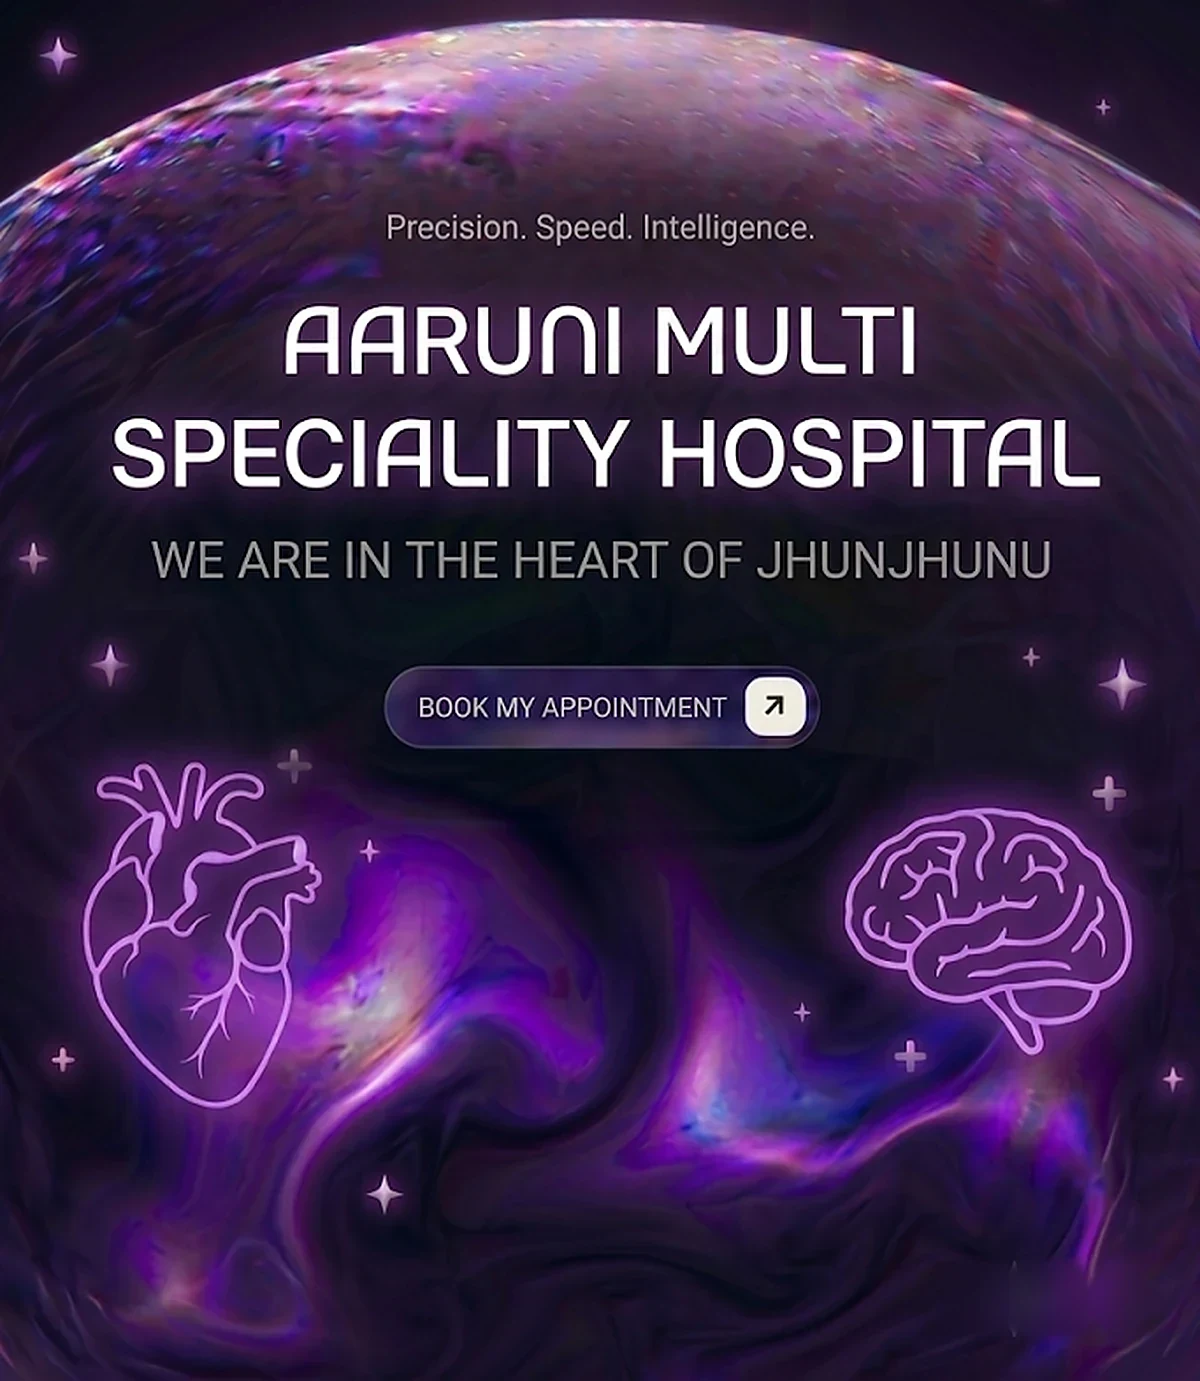
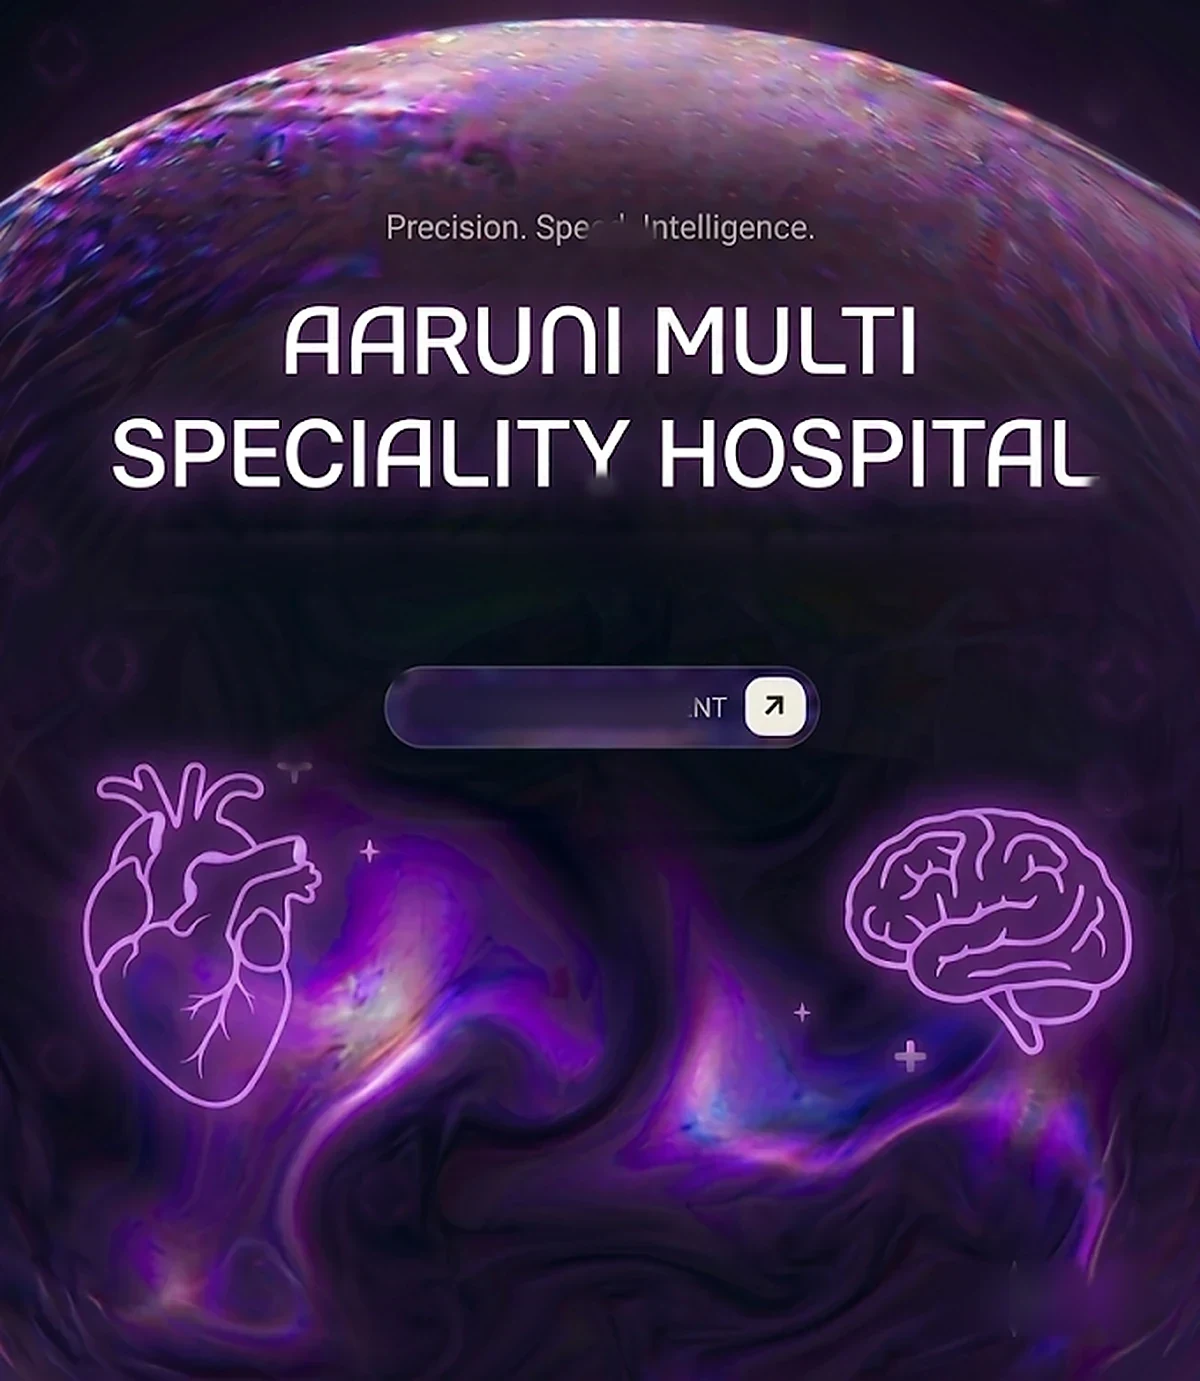
Doctors: real cut-out photos in rounded cards w/ bottom glow; strip card -> ECG; add 4.7/5 rating w/ purple star; remove static baked sparkles (desktop + mobile)

diff --git a/assets/css/clinic.css b/assets/css/clinic.css
@@ -333,6 +333,7 @@ body.nav-open .navtoggle span:nth-child(3){transform:translateY(-7px) rotate(-45
 .about__stats strong{font-family:var(--display);font-size:30px;font-weight:700;color:#fff}
 .about__stats b{color:var(--violet-bright);font-weight:700}
 .about__stats span{display:block;font-size:13px;color:var(--muted)}
+.rate-star{width:13px;height:13px;fill:var(--violet-bright);vertical-align:-2px;margin-right:1px;filter:drop-shadow(0 0 4px rgba(166,77,255,.75))}
 @media(max-width:900px){.about__grid{grid-template-columns:1fr;gap:64px}.about__art{max-width:420px}
   .about__statcard{position:static;right:auto;bottom:auto;margin-top:18px;max-width:100%}}
 
@@ -351,18 +352,15 @@ body.nav-open .navtoggle span:nth-child(3){transform:translateY(-7px) rotate(-45
 
 /* ---------- DOCTORS ---------- */
 .docgrid{display:grid;grid-template-columns:repeat(4,1fr);gap:22px}
-.doc{border-radius:var(--r-lg);padding:26px 22px;text-align:center;
+.doc{border-radius:var(--r-lg);padding:14px 14px 20px;text-align:center;
   transition:transform .35s cubic-bezier(.16,1,.3,1),box-shadow .35s,border-color .35s}
 .doc:hover{border-color:var(--line-2);box-shadow:var(--glow-sm)}
-.doc__badge{position:relative;width:96px;height:96px;margin:0 auto 18px;display:grid;place-items:center}
-.doc__badge>span:first-child{font-family:var(--display);font-size:32px;font-weight:700;color:#fff;
-  width:78px;height:78px;border-radius:50%;display:grid;place-items:center;
-  background:radial-gradient(circle at 35% 30%,rgba(166,77,255,.5),rgba(20,11,40,.9));text-shadow:0 0 16px rgba(166,77,255,.6)}
-.doc__ring{position:absolute;inset:0;border-radius:50%;border:1.5px solid var(--line-2);
-  box-shadow:0 0 26px rgba(166,77,255,.35),inset 0 0 18px rgba(166,77,255,.2)}
-.doc__ring::after{content:"";position:absolute;top:-3px;left:50%;width:8px;height:8px;border-radius:50%;
-  transform:translateX(-50%);background:var(--violet-bright);box-shadow:0 0 12px var(--violet)}
-.doc:hover .doc__ring{animation:spin 8s linear infinite}
+.doc__photo{position:relative;aspect-ratio:1/1;border-radius:18px;overflow:hidden;margin:0 0 16px;
+  background:radial-gradient(ellipse 82% 55% at 50% 118%,rgba(176,108,255,.6),rgba(120,50,210,.18) 46%,transparent 74%),linear-gradient(180deg,#160c2c,#0b0720);
+  border:1px solid var(--glass-line);box-shadow:inset 0 0 34px rgba(0,0,0,.5)}
+.doc__photo img{position:absolute;left:50%;bottom:0;transform:translateX(-50%);height:100%;width:auto;max-width:none;
+  object-position:bottom;transition:transform .4s cubic-bezier(.16,1,.3,1)}
+.doc:hover .doc__photo img{transform:translateX(-50%) scale(1.03)}
 .doc h3{font-family:var(--display);font-size:18px;font-weight:600;color:#fff}
 .doc__spec{font-size:13.5px;color:var(--muted)}
 @media(max-width:900px){.docgrid{grid-template-columns:1fr 1fr}}

diff --git a/index.html b/index.html
@@ -90,7 +90,7 @@
         </div>
         <div class="strip__item glass reveal">
           <span class="strip__ic"><svg viewBox="0 0 24 24"><circle cx="12" cy="12" r="8"/><circle cx="12" cy="12" r="2.5"/><path d="M12 4v3M12 17v3M4 12h3M17 12h3"/></svg></span>
-          <div><strong>In-house Diagnostics</strong><span>MRI · CT · USG · X-ray</span></div>
+          <div><strong>In-house Diagnostics</strong><span>ECG · X-ray</span></div>
         </div>
         <div class="strip__item glass reveal">
           <span class="strip__ic"><svg viewBox="0 0 24 24"><path d="M8 21V8l4-4 4 4v13"/><path d="M4 21h16M10 12h4M10 16h4"/></svg></span>
@@ -371,6 +371,7 @@
             <div><strong data-count="900">0</strong><b>+</b><span>Successful surgeries</span></div>
             <div><strong data-count="550000">0</strong><b>+</b><span>People trust us</span></div>
             <div><strong data-count="50">0</strong><b>+</b><span>Care experts</span></div>
+            <div><strong>4.7</strong><b>/5</b><span><svg class="rate-star" viewBox="0 0 24 24" aria-hidden="true"><path d="M12 2l2.95 5.98 6.6.96-4.78 4.66 1.13 6.58L12 17.98 6.1 20.16l1.13-6.58L2.45 8.94l6.6-.96L12 2Z"/></svg> Rating</span></div>
           </div>
           <a href="#appointment" class="btn btn--primary btn--lg">Visit us in Jhunjhunu
             <span class="btn__arrow"><svg viewBox="0 0 24 24"><path d="M7 17L17 7M9 7h8v8"/></svg></span></a>
@@ -416,19 +417,19 @@
         </div>
         <div class="docgrid">
           <article class="doc glass reveal" data-tilt>
-            <div class="doc__badge"><span>SP</span><span class="doc__ring"></span></div>
+            <div class="doc__photo"><img src="assets/img/doc-poonia.png" alt="Dr. Sunil Poonia" loading="lazy"></div>
             <h3>Dr. Sunil Poonia</h3><span class="doc__spec">Orthopaedics</span>
           </article>
           <article class="doc glass reveal" data-tilt>
-            <div class="doc__badge"><span>UK</span><span class="doc__ring"></span></div>
+            <div class="doc__photo"><img src="assets/img/doc-kulhari.png" alt="Dr. Umrao Kulhari" loading="lazy"></div>
             <h3>Dr. Umrao Kulhari</h3><span class="doc__spec">Urology</span>
           </article>
           <article class="doc glass reveal" data-tilt>
-            <div class="doc__badge"><span>MK</span><span class="doc__ring"></span></div>
+            <div class="doc__photo"><img src="assets/img/doc-khedar.png" alt="Dr. Mukesh Khedar" loading="lazy"></div>
             <h3>Dr. Mukesh Khedar</h3><span class="doc__spec">General Surgeon</span>
           </article>
           <article class="doc glass reveal" data-tilt>
-            <div class="doc__badge"><span>KK</span><span class="doc__ring"></span></div>
+            <div class="doc__photo"><img src="assets/img/doc-krishan.png" alt="Dr. Krishan Kumar" loading="lazy"></div>
             <h3>Dr. Krishan Kumar</h3><span class="doc__spec">Consultant Physician (Medicine)</span>
           </article>
         </div>